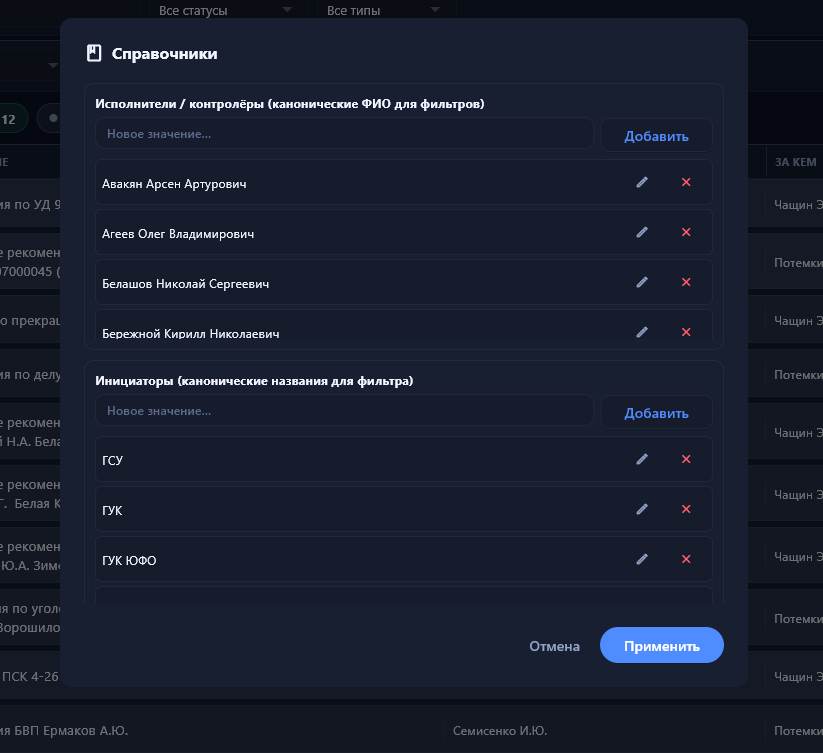
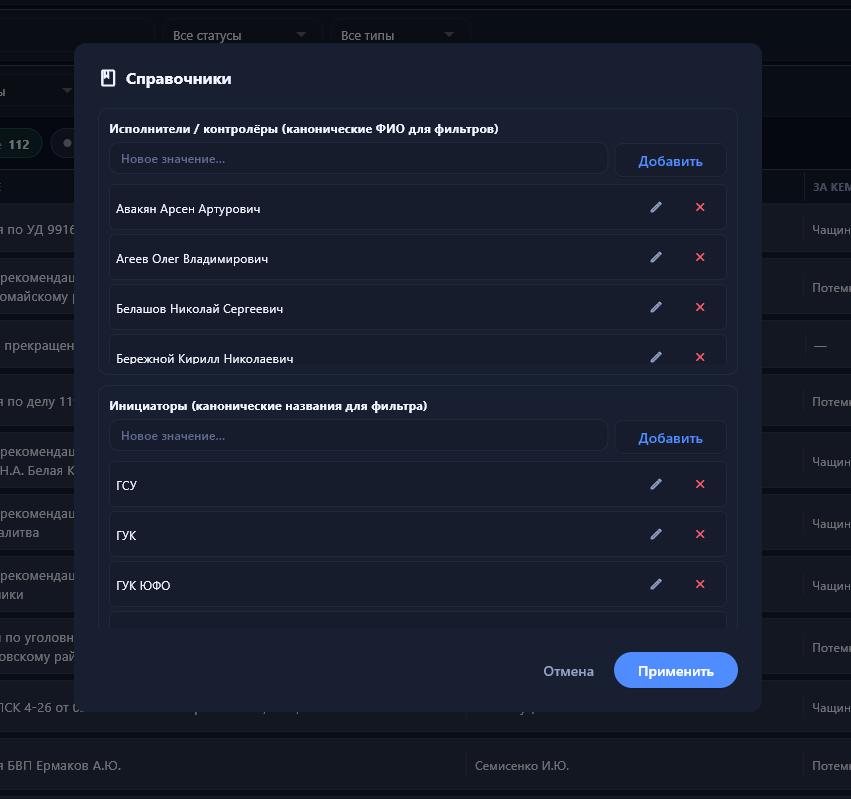
docs: round 12 prompt + updated screenshots + AGENTS.md §40
- Round 11 rejected based on GUI screenshots.
- New screenshots from LLM/10.08.2026 copied to design/screenshots/10.08.2026/.
- PROMPT_контроли_доработка12.md added with radical fixes.
- AGENTS.md §40 documents rejection and round 12 direction.

diff --git a/PROMPT_контроли_доработка12.md b/PROMPT_контроли_доработка12.md
@@ -1,0 +1,179 @@
+# ПРОМПТ АГЕНТУ: Вкладка «Контроли» — раунд 12 (радикальные фиксы UI)
+
+**Репозиторий:** https://github.com/sledovatel61/porayonka.git (ветка `main`)
+**Приложение:** `porayonka-app/main.py`
+**Запуск:** `python porayonka-app/main.py`
+**Flet:** строго 0.23.2
+**База для работы:** актуальный `main` (коммит `10b9f05` — раунд 10)
+
+> Раунд 11 (ветка `arena/019fd626-porayonka`, коммит `6964be4`) не принят —
+> скрины показывают, что ни одна из 5 задач не заработала в реальном GUI.
+> Нужен радикальный пересмотр подходов.
+
+**Скрины текущего состояния (ОБЯЗАТЕЛЬНО смотри):**
+`design/screenshots/10.08.2026/`
+- `Таблица не поместилась.png`
+- `Таблица не поместилась2.png`
+- `Справочник.png`
+- `Карточка контроля.png`
+- `прикрепление фото.png`
+- `hover.png` (если есть)
+
+---
+
+## Цель
+
+Исправить 5 проблем радикально и надёжно:
+
+1. **Hover** — без задержек и без множественной подсветки.
+2. **Таблица** — по умолчанию помещается в окно, колонка «Действия» не уезжает за край.
+3. **Справочники** — окно можно растянуть; скролл листает по одному элементу.
+4. **Карточка контроля** — скруглённые углы (не прозрачные, не прямоугольные); поле «За кем контроль» всегда заполнено.
+5. **Прикрепление файла** — сразу отображается в карточке после выбора.
+
+---
+
+## Задача 1 — Hover: убрать лаг и множественную подсветку
+
+**Проблема:** при движении курсором подсвечивается несколько строк сразу, с задержкой.
+
+**Решение (выбери ОДНО, главное — работает в GUI):**
+- **Вариант А (предпочтительный):** убрать hover-заливку фона строки полностью. Вместо этого при наведении менять только **рамку строки** (border color на акцент `#4f8cff`, толщина 1px). При leave возвращать исходную рамку. Если и это лагает — перейти к варианту Б.
+- **Вариант Б:** убрать вообще любой hover-эффект на строках, оставить только `mouse_cursor=CLICK`. Это гарантированно убирает лаг.
+- **Запрещено:** оставлять hover-заливку фона с `row.update()` — это даёт задержку и «хвосты».
+
+**Требование:** при быстром проведении курсором по таблице не должно оставаться подсвеченных строк.
+
+---
+
+## Задача 2 — Таблица по умолчанию помещается на экран
+
+**Проблема:** даже при ширине окна ~1900 px таблица не помещается, колонка «Действия» уезжает за край (см. `Таблица не поместилась.png`).
+
+**Решение:**
+- Пересмотреть все дефолтные ширины колонок. Цель: при ширине окна **≥1280 px** таблица целиком видна без горизонтального скролла.
+- Уменьшить ширину следующих колонок (ориентировочно):
+  - «Вх. №» — до 130–140 px
+  - «Дата поступления» — до 85 px
+  - «Инициатор» — до 100 px
+  - «За кем» — до 100 px
+  - «Тип» — до 75 px
+  - «Срок исполн.» — до 90 px
+  - «Статус» — до 100 px
+  - «Действия» — до 90–100 px (4 иконки по 20–22 px)
+  - «Исполнители» и «Содержание» — занимают оставшееся пространство, но **не больше** чем осталось.
+- Важно: не просто задать сумму 1280, а учесть **все отступы, spacing, разделители, scrollbar** (~40–60 px запас).
+- Если таблица всё равно не помещается — разрешено уменьшить кегль текста в строках до 11 px.
+- Колонка «Действия» остаётся прижата к правому краю.
+
+**Как проверить в headless:** smoke-тест должен проверять, что сумма ширин колонок + padding + spacing ≤ 1240 px при page.width=1280.
+
+---
+
+## Задача 3 — Справочники: resize + построчный скролл
+
+**Проблема:** модалка «Справочники» не растягивается, скролл пролистывает сразу много элементов (см. `Справочник.png`).
+
+**Решение:**
+- **Переделать модалку «Справочники» из `ft.AlertDialog` в overlay-Container** (по аналогии с карточкой контроля). Только так в Flet 0.23.2 можно реализовать произвольный resize.
+  - Overlay затемнённый фон + панель по центру.
+  - Панель имеет min/max размеры и resize-зону в правом нижнем углу.
+  - При растягивании окна панель увеличивается, списки тянутся.
+- Для построчного скролла:
+  - использовать `ft.ListView` с `item_extent` равным высоте одной строки;
+  - или `ft.Column` с `scroll=ft.ScrollMode.AUTO` и фиксированной высотой строки, но **без больших padding/margin**, чтобы колесо мыши не «прыгало».
+  - если `ListView` в Flet 0.23.2 всё равно пролистывает страницами — добавить обработчик `on_scroll` с `e.scroll_y` и программно прокручивать на `item_extent` за раз.
+
+---
+
+## Задача 4 — Карточка: скруглённые углы + поле «За кем контроль»
+
+**Проблема:**
+- Углы карточки не скруглены, выглядят прямоугольными/прозрачными с контуром.
+- Для контроля 4239-26 поле «За кем контроль» пустое, хотя в таблице стоит «Чащин Э.А.».
+
+**Решение для углов:**
+- Гарантированный способ: сделать `detail_card` **единым внешним `ft.Container`** с:
+  - `border_radius=16`
+  - `clip_behavior=ft.ClipBehavior.HARD_EDGE`
+  - `border=ft.border.all(1, GLASS["border"])`
+- Внутри `detail_card` — `ft.Column` с содержимым. **Все дочерние элементы должны иметь меньшую ширину/высоту**, чем `detail_card`, чтобы не вылезать за границы.
+- Если resize-handle в `Stack` ломает clip — перенести handle **внутрь** `detail_card` (в правый нижний угол) как дочерний `ft.Container` с `alignment=ft.alignment.bottom_right`. Или временно убрать resize-handle ради рабочих углов (resize можно вернуть позже).
+- Если `Stack` с `detail_overlay` мешает clip — обернуть карточку в дополнительный `ft.Container(clip_behavior=HARD_EDGE)`.
+
+**Решение для «За кем контроль»:**
+- При открытии карточки значение контролёра должно устанавливаться всегда, если оно не пустое.
+- Если точное совпадение с `available_names` отсутствует — искать **по фамилии** (первое слово) среди канонических имён.
+- Если не нашлось — добавить значение из данных как временную опцию dropdown и выбрать её.
+- Ни в коем случае не оставлять поле пустым, если в таблице есть значение.
+
+---
+
+## Задача 5 — Прикрепление файла: сразу видно
+
+**Проблема:** после выбора файла toast «Файл прикреплён» показывается, но вложение не появляется в списке (см. `прикрепление фото.png`).
+
+**Решение:**
+- После FilePicker `on_result` выполнить строго последовательно:
+  1. `copy_attachment_to_local(control_id, path)`
+  2. Добавить относительный путь в `control.attachments` и в `detail_state["attachments"]`.
+  3. Вызвать `_rebuild_attach()`.
+  4. Вызвать `_safe_update(attach_col)`.
+  5. Вызвать `_persist()` (или `save_controls`) — сохранить `controls.json`.
+  6. `page.update()` (если нужно).
+  7. Toast.
+- Если `attach_col` не обновляется — принудительно очистить `attach_col.controls` и пересоздать заново.
+- Проверить, что `FilePicker` result handler действительно подключён к правому пикеру (`_controls_attach_picker`), а не к экспортному/импортному.
+
+---
+
+## Технические ограничения
+
+- Flet 0.23.2 — не повышать.
+- Внутри `Column(scroll=ft.ScrollMode.AUTO)` — никаких `expand=True` (кроме горизонтальных спейсеров в `Row`), `wrap=True`, `animate*`, `shadow`, `gradient` на мелких контейнерах.
+- Цвета с прозрачностью — только `#AARRGGBB`. Динамические — через `with_alpha` из `glass_theme.py`.
+- `print()` в консоль — только ASCII.
+- UI-текст — на русском; `ft.icons.*`.
+- Не ломать логику данных, сеть, Excel, архив, другие вкладки.
+- Вложенные `AlertDialog` запрещены.
+
+---
+
+## Что нужно сделать
+
+1. Изучить скрины в `design/screenshots/10.08.2026/` и текущий `porayonka-app/ui/controls/controls_tab.py`.
+2. Реализовать задачи 1–5 радикально.
+3. Прогнать обязательные проверки:
+   ```bash
+   cd porayonka-app
+   python -m py_compile ui/controls/controls_tab.py ui/controls/russian_calendar.py ui/controls/glass_theme.py ui/controls/control_card_modal.py ui/controls/controls_settings_modal.py main.py
+   python -c "import sys; sys.path.insert(0, '.'); from ui.controls.controls_tab import create_controls_tab; print('OK')"
+   python tests/test_controls_smoke.py   # ALL OK обязателен
+   ```
+4. Добавить/обновить headless-тесты:
+   - hover отсутствует или только рамка (не bgcolor);
+   - сумма ширин колонок ≤ 1240 при 1280;
+   - справочники — overlay Container, а не AlertDialog;
+   - карточка — `clip_behavior=HARD_EDGE` и `border_radius`;
+   - controller заполнен для короткого имени;
+   - attachments обновляются сразу после имитации FilePicker.
+5. Подготовить diff и описание для оркестратора.
+6. Запушить в новую ветку `arena/YYYY-porayonka` и сообщить имя ветки + коммит.
+
+---
+
+## Чек-лист ручной приёмки (Windows)
+
+1. Провести курсором по строкам — hover мгновенный, не остаётся на нескольких строках.
+2. Открыть на 1280 px — вся таблица видна, «Действия» у правого края, ничего не уезжает.
+3. «Справочники» — окно растягивается за угол; скролл листает по одному человеку.
+4. Открыть карточку — все 4 угла скруглены; «За кем контроль» заполнен.
+5. «Прикрепить файл» → файл сразу появляется в списке вложений карточки.
+
+---
+
+## Важно
+
+- Раунд 11 не принят — не копировать его решения бездумно. Нужны рабочие GUI-решения.
+- Если что-то невозможно в Flet 0.23.2 — объяснить почему и предложить минимальную альтернативу.
+- Все новые 8-значные hex — `#AARRGGBB`.

diff --git a/AGENTS.md b/AGENTS.md
@@ -2595,3 +2595,33 @@ python main.py                        # живая проверка GUI Windows
 ### 39.3 Процесс раунда 11
 
 См. `PROMPT_контроли_доработка11.md`.
+
+---
+
+## 40. Вкладка «Контроли» — раунд 11 НЕ ПРИНЯТ, раунд 12 в работе
+
+**Дата:** 2026-08-10. **Статус:** раунд 11 (`6964be4` в `arena/019fd626-porayonka`)
+не влит в `main`. По скринам пользователя ни одна из 5 задач не заработала в GUI.
+Раунд 12 в разработке (промпт `PROMPT_контроли_доработка12.md`).
+
+### 40.1 Почему раунд 11 не принят
+
+Скрины `design/screenshots/10.08.2026/` (обновлены 10.08.2026):
+- **Таблица** — всё ещё не помещается даже на ~1900 px; «Действия» уезжают за край.
+- **Hover** — с задержкой и множественной подсветкой.
+- **Справочники** — AlertDialog не растягивается; скролл пролистывает страницами.
+- **Карточка** — углы не скруглены; поле «За кем контроль» пустое у 4239-26.
+- **Прикрепление** — toast «Файл прикреплён», но вложение не появляется в списке.
+
+### 40.2 Направление раунда 12
+
+Радикальный пересмотр:
+- hover — только рамка или вообще без hover-эффекта;
+- таблица — жёстко уменьшенные дефолтные ширины, чтобы помещалась при 1280 px;
+- справочники — overlay-Container вместо AlertDialog;
+- карточка — внешний Container с `clip_behavior=HARD_EDGE`, корректный controller;
+- прикрепление — принудительный rebuild + persist сразу после FilePicker.
+
+### 40.3 Процесс раунда 12
+
+См. `PROMPT_контроли_доработка12.md`.
